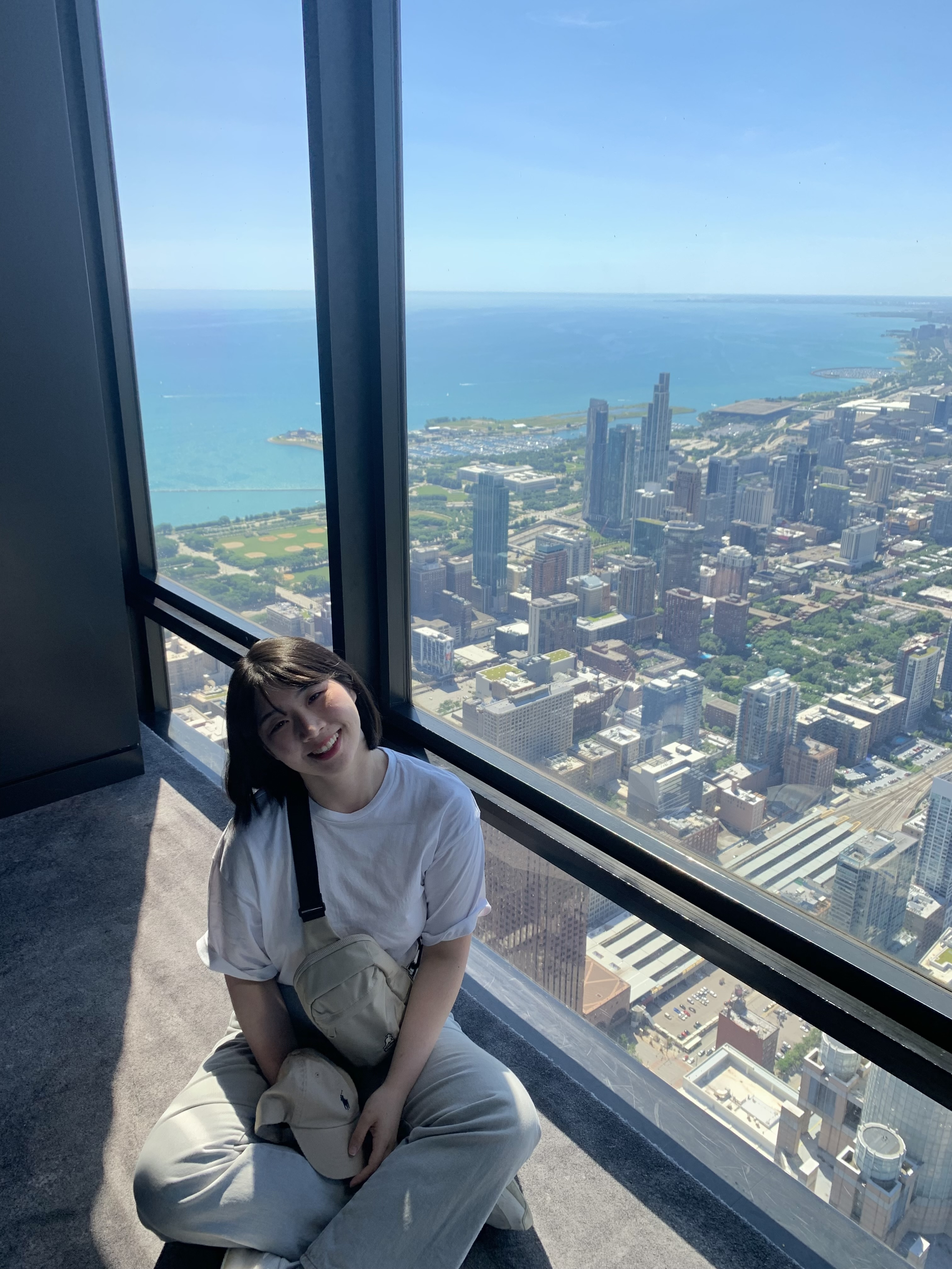
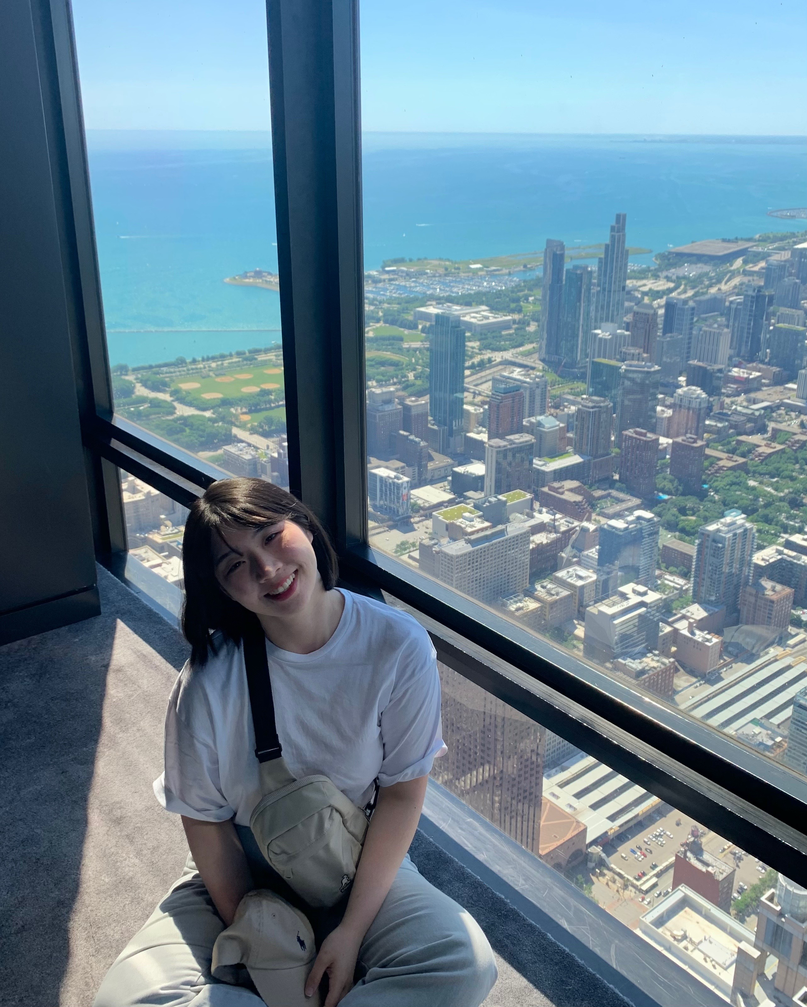
Add Home

diff --git a/assets/css/custom.css b/assets/css/custom.css
@@ -1,0 +1,99 @@
+/* Layout: image left, text right */
+
+.home-hero {
+  display: flex;
+  flex-direction: row;
+  align-items: center;
+  gap: 2rem;
+  margin-top: 1.5rem;
+}
+
+/* On small screens, stack vertically */
+@media (max-width: 768px) {
+  .home-hero {
+    flex-direction: column;
+  }
+}
+
+/* Image column: fixed width */
+.home-hero-image {
+  flex: 0 0 auto;
+}
+
+/* Make the image smaller and stop it from stretching full width */
+.home-hero-image img {
+  width: 290px !important; /* try 260–300px; adjust to taste */
+  max-width: 290px !important;
+  height: auto;
+  display: block;
+}
+
+/* Text column: take the remaining space */
+.home-hero-text {
+  flex: 1 1 0;
+  min-width: 0;
+}
+
+/* Home social icons: base style */
+.home-social .contact-icons a {
+  color: #000000 !important; /* black */
+  font-size: 1.6rem; /* icon size (1.4–1.8 is a good range) */
+  margin: 0 8px; /* spacing between icons */
+  text-decoration: none;
+}
+
+/* Hover: turn icons blue */
+.home-social .contact-icons a:hover,
+.home-social .contact-icons a:focus {
+  color: #1f66b6 !important; /* blue on hover */
+}
+
+/* Dark mode: make icons white/light-gray */
+html[data-theme="dark"] .home-social .contact-icons a {
+  color: #e5e5e5 !important; /* or #ffffff for pure white */
+}
+
+/* Dark mode: hover */
+html[data-theme="dark"] .home-social .contact-icons a:hover,
+html[data-theme="dark"] .home-social .contact-icons a:focus {
+  color: #2998e7 !important;
+}
+
+/* Container for box links */
+.link-boxes {
+  display: flex;
+  flex-wrap: wrap;
+  gap: 20px;
+  margin: 1.5rem 0;
+}
+
+/* Base look for each box */
+.link-box {
+  padding: 6px 28px;
+  border: 1.8px solid #000; /* black border – change to #3182ce for blue */
+  border-radius: 0; /* sharp edges */
+  font-size: 0.95rem;
+  color: #000;
+  text-decoration: none;
+  transition: all 0.2s ease;
+  display: inline-block;
+}
+
+/* Hover effect */
+.link-box:hover {
+  background-color: #1f66b6;
+  color: #fff;
+  border-color: #1f66b6;
+}
+
+/* Dark mode */
+html[data-theme="dark"] .link-box {
+  border-color: #e5e5e5; /* light gray border */
+  color: #e5e5e5; /* light gray text */
+}
+
+html[data-theme="dark"] .link-box:hover {
+  background-color: #2998e7; /* gray/white fill */
+  color: #fff; /* black text on hover */
+  border-color: #2998e7;
+}

diff --git a/_sass/_variables.scss b/_sass/_variables.scss
@@ -34,7 +34,7 @@ $black-color: #000000 !default;
 $grey-blue-color: #bec9ea !default;
 $grey-purple-color: #d5c7e3 !default;
 $my-blue-color: #1f66b6 !default;
-$my-dark-blue-color: #2b81bf !default;
+$my-dark-blue-color: #2998e7 !default;
 
 // Theme colors
 

diff --git a/_pages/home.md b/_pages/home.md
@@ -1,14 +1,19 @@
 ---
-layout: about
+layout: home
 title: home
 permalink: /
 subtitle: Astronomy, PhD Candidate @ University of Washington, Seattle
 
+# profile:
+#   align: center
+#   image: telescopes.png
+#   image_circular: false # crops the image to make it circular
+#   more_info: >
+
 profile:
   align: left
-  image: bechoi_profile.jpg
-  image_circular: false # crops the image to make it circular
-  more_info: >
+  image: bechoi_profile.JPG
+  image_circular: false
 
 news: false # includes a list of news items
 latest_posts: false # includes a list of the newest posts
@@ -16,7 +21,12 @@ selected_papers: false # includes a list of papers marked as "selected={true}"
 social: true # includes social icons at the bottom of the page
 ---
 
-I'm an Astronomy PhD candidate at the University of Washington. My main [research interest](/research/) is the baryon cycle in galaxies -- understanding how baryonic matter is accreted into galaxies, how it fuels galactic star formation, and how it is recycled, in particular, by stellar feedback. I'm also passionate about how massive stars evolve and die, exploring their unique evolutionary history and impacts on their surroundings. Spectroscopy is my favorite tool to find hints on these cosmic scenes.
+<div class="link-boxes">
+  <a href="https://ui.adsabs.harvard.edu/search/filter_author_facet_hier_fq_author=AND&filter_author_facet_hier_fq_author=author_facet_hier%3A%221%2FChoi%2C%20B%2FChoi%2C%20Bo-Eun%22&fq=%7B!type%3Daqp%20v%3D%24fq_database%7D&fq=%7B!type%3Daqp%20v%3D%24fq_author%7D&fq_author=(author_facet_hier%3A%221%2FChoi%2C%20B%2FChoi%2C%20Bo-Eun%22)&fq_database=database%3A%20astronomy&q=author%3A(%22Choi%2C%20Bo-Eun%22)&sort=date%20desc%2C%20bibcode%20desc&p_=0" class="link-box">ADS</a>
+  <a href="/assets/pdf/bechoi_cv_Dec2025.pdf" class="link-box" target="_blank">CV</a>
+</div>
+
+<!-- I'm an Astronomy PhD candidate at the University of Washington. My main [research interest](/research/) is the baryon cycle in galaxies -- understanding how baryonic matter is accreted into galaxies, how it fuels galactic star formation, and how it is recycled, in particular, by stellar feedback. I'm also passionate about how massive stars evolve and die, exploring their unique evolutionary history and impacts on their surroundings. Spectroscopy is my favorite tool to find hints on these cosmic scenes. -->
 
 <br>
 <!-- "Painters understand nature and love it, and teach us to see." - Vincent van Gogh -->

diff --git a/_pages/about.md b/_pages/about.md
@@ -7,7 +7,7 @@ nav_order: 2
 subtitle: Astronomy, PhD Candidate @ University of Washington, Seattle
 
 profile:
-  align: right
+  align: left
   image: bechoi_profile_2.jpg
   image_circular: false # crops the image to make it circular
   more_info: >
@@ -15,7 +15,7 @@ profile:
 news: false # includes a list of news items
 latest_posts: false # includes a list of the newest posts
 selected_papers: false # includes a list of papers marked as "selected={true}"
-social: true # includes social icons at the bottom of the page
+social: false # includes social icons at the bottom of the page
 ---
 
 I'm an Astronomy PhD candidate at the University of Washington. My main [research interest](/research/) is the baryon cycle in galaxies -- understanding how baryonic matter is accreted into galaxies, how it fuels galactic star formation, and how it is recycled, in particular, by stellar feedback. I'm also passionate about how massive stars evolve and die, exploring their unique evolutionary history and impacts on their surroundings. Spectroscopy is my favorite tool to find hints on these cosmic scenes.
